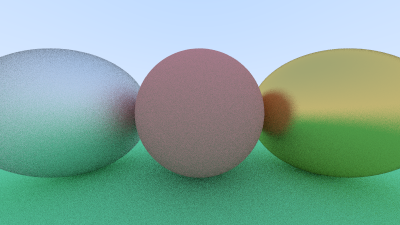
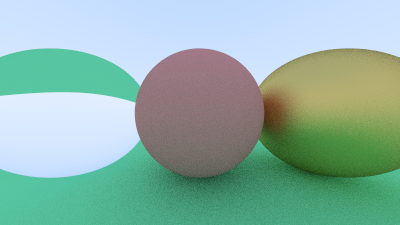
feat: 全反射を考慮したが可能な場合は屈折する誘電体

diff --git a/material.h b/material.h
@@ -64,6 +64,14 @@ class dielectric : public material {
             etai_over_etat = ref_idx;
         }
         vec3 unit_direction = unit_vector(r_in.direction());
+        double cos_theta = fmin(dot(-unit_direction, rec.normal), 1.0);
+        double sin_theta = sqrt(1.0 - cos_theta*cos_theta);
+        if (etai_over_etat * sin_theta > 1.0) {
+            vec3 reflected = reflect(unit_direction, rec.normal);
+            scattered = ray(rec.p, reflected);
+            return true;
+        }
+
         vec3 refracted = refract(unit_direction, rec.normal, etai_over_etat);
         scattered = ray(rec.p, refracted);
         return true;
